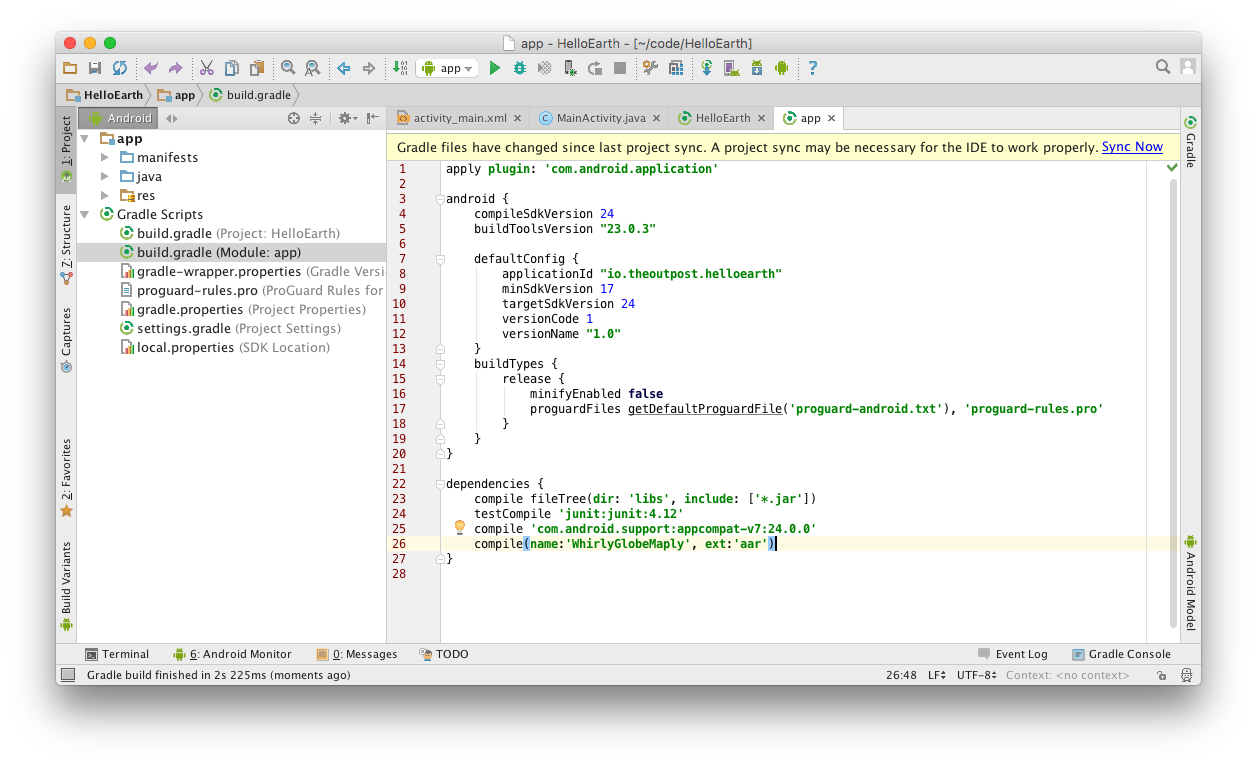
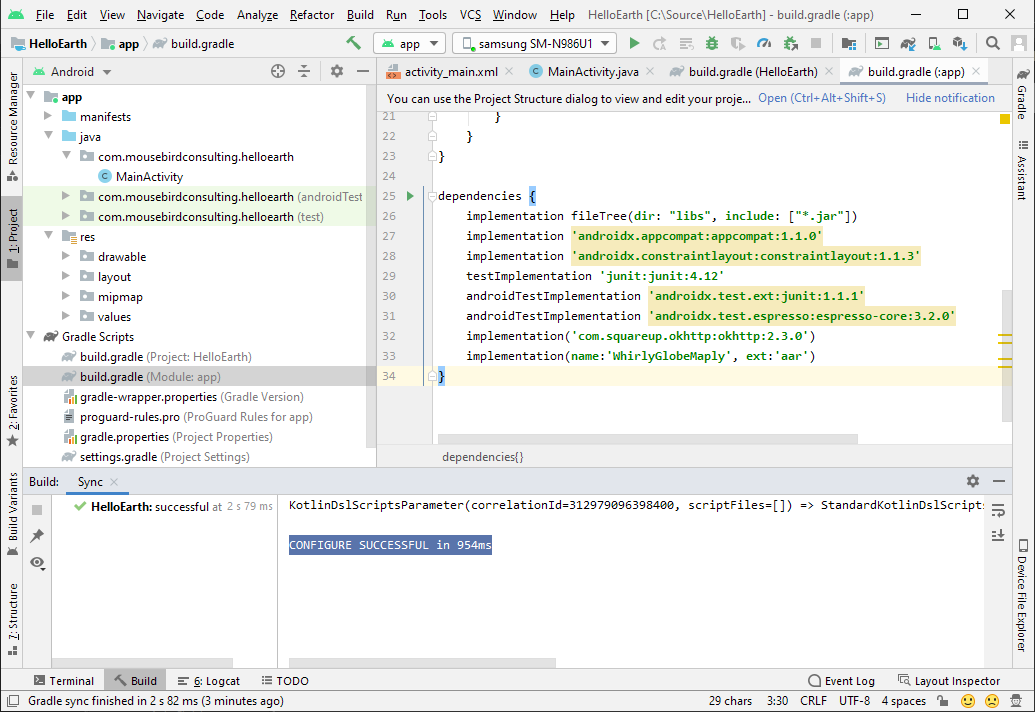
Start on updating tutorials

diff --git a/tutorial/android/your-first-globe-or-map.md b/tutorial/android/your-first-globe-or-map.md
@@ -13,119 +13,60 @@ You can make a 3D globe or a 2D map equally well in WhirlyGlobe-Maply.  Hence th
 
 If you want a rotating globe, you'll want a `MapDisplayType.Globe`. If you want a slippy map, you'll want a `MapDisplayType.Map` enum in your `GlobeMapFragment`. We'll go into greater detail about this setting later in the tutorial.
 
-### Create a Fragment
+### Add Internet Permission
 
-The easiest way to get a globe in your app is to create a fragment that extends the `GlobeMapFragment` class. Most of the boilerplate setup work is done for you in `GlobeMapFragment`, and all you have to do is extend several methods from that class for your specific setup.
+We'll need to be able to load tile images from the internet, which means the application will need to request the internet permission. Add the following `uses-permission` element to the manifest section of `app/manifests/AppManifest.xml`:
 
-Right click on the package of your `MainActivity` in the project window. Select a new blank fragment.
+```xml
+<?xml version="1.0" encoding="utf-8"?>
+<manifest xmlns:android="http://schemas.android.com/apk/res/android"
+    package="com.mousebirdconsulting.helloearth">
 
-![New Blank Fragment](resources/new-blank-fragment.png)
+    <application
+        android:allowBackup="true"
+        android:icon="@mipmap/ic_launcher"
+        android:label="@string/app_name"
+        android:roundIcon="@mipmap/ic_launcher_round"
+        android:supportsRtl="true"
+        android:theme="@style/AppTheme">
+        <activity android:name=".MainActivity">
+            <intent-filter>
+                <action android:name="android.intent.action.MAIN" />
 
-Notice that we are not including layout XML. This is because the internal layout of your fragment is already done for you under the hood, by the library. You can optionally include fragment factory methods and interface callbacks, however, you will need to implement those if you want the app to work. For this tutorial, leave those unchecked.
-
-![Hello Globe Fragment](resources/hello-globe-fragment.png)
-
-Select __Finish__.
+                <category android:name="android.intent.category.LAUNCHER" />
+            </intent-filter>
+        </activity>
+    </application>
+    <uses-permission android:name="android.permission.INTERNET"/>
+</manifest>
+```
 
 ### Include Fragment in Activity XML
 
-Our `HelloGlobeFragment` will be in our main activity, and it will fill all of the space. 
-
-Open `app/src/main/res/layout/activity_hello_globe.xml`. Delete the padding in the `RelativeLayout` as well as the `TextView`. Inside of the relative layout, place a fragment element as shown below.
+Open `app/res/layout/activity_main.xml` and select the "Code" view. Replace the `TextView` with the fragment element as shown below.
 
 #### activity_main.xml
 
 ```xml
 <?xml version="1.0" encoding="utf-8"?>
-<RelativeLayout xmlns:android="http://schemas.android.com/apk/res/android"
+<androidx.constraintlayout.widget.ConstraintLayout xmlns:android="http://schemas.android.com/apk/res/android"
+    xmlns:app="http://schemas.android.com/apk/res-auto"
     xmlns:tools="http://schemas.android.com/tools"
+    android:id="@+id/relativeLayout"
     android:layout_width="match_parent"
     android:layout_height="match_parent"
-    tools:context="io.theoutpost.helloearth.MainActivity">
+    android:background="#FF0000"
+    tools:context=".MainActivity">
 
     <fragment
-        android:layout_width="fill_parent"
-        android:layout_height="fill_parent"
-        android:name="io.theoutpost.helloearth.HelloGlobeFragment"
         android:id="@+id/fragment"
-        android:layout_centerVertical="true"
-        android:layout_centerHorizontal="true" />
-</RelativeLayout>
+        android:name="com.mousebird.maply.GlobeMapFragment"
+        android:layout_width="match_parent"
+        android:layout_height="match_parent"
+         />
+
+</androidx.constraintlayout.widget.ConstraintLayout>
 ```
-
-When you look in the __Design__ view of the layout xml, don't worry if there is a warning that there is no fragment layout. The fragment's layout is set up for you automatically at runtime.
-
-### Setup HelloGlobeFragment.java
-
-Open your `HelloGlobeFragment.java` file and delete the boilerplate code. Replace it with the following:
-
-```java
-package io.theoutpost.helloearth;
-
-import android.os.Bundle;
-import android.view.LayoutInflater;
-import android.view.View;
-import android.view.ViewGroup;
-import com.mousebird.maply.GlobeMapFragment;
-import com.mousebird.maply.QuadImageTileLayer;
-import com.mousebird.maply.RemoteTileInfo;
-import com.mousebird.maply.RemoteTileSource;
-import com.mousebird.maply.SphericalMercatorCoordSystem;
-
-import java.io.File;
-
-
-public class HelloGlobeFragment extends GlobeMapFragment {
-
-    @Override
-    public View onCreateView(LayoutInflater inflater, ViewGroup container,
-                             Bundle inState) {
-        super.onCreateView(inflater, container, inState);
-
-        // Do app specific setup logic.
-
-        return baseControl.getContentView();
-    }
-
-    @Override
-    protected MapDisplayType chooseDisplayType() {
-        return MapDisplayType.Globe;
-    }
-
-    @Override
-    protected void controlHasStarted() {
-        // setup base layer tiles
-        String cacheDirName = "stamen_watercolor";
-        File cacheDir = new File(getActivity().getCacheDir(), cacheDirName);
-        cacheDir.mkdir();
-        RemoteTileSource remoteTileSource = new RemoteTileSource(new RemoteTileInfo("http://tile.stamen.com/watercolor/", "png", 0, 18));
-        remoteTileSource.setCacheDir(cacheDir);
-        SphericalMercatorCoordSystem coordSystem = new SphericalMercatorCoordSystem();
-
-        // globeControl is the controller when using MapDisplayType.Globe
-        // mapControl is the controller when using MapDisplayType.Map
-        QuadImageTileLayer baseLayer = new QuadImageTileLayer(globeControl, coordSystem, remoteTileSource);
-        baseLayer.setImageDepth(1);
-        baseLayer.setSingleLevelLoading(false);
-        baseLayer.setUseTargetZoomLevel(false);
-        baseLayer.setCoverPoles(true);
-        baseLayer.setHandleEdges(true);
-
-        // add layer and position
-        globeControl.addLayer(baseLayer);
-        globeControl.animatePositionGeo(-3.6704803, 40.5023056, 5, 1.0);
-    }
-
-}
-```
-
-You can download [HelloGlobeFragment.java](resources/HelloGlobeFragment.java) and place it directly in your project if you'd like. Notice that it is extending `com.mousebird.maply.GlobeMapFragment`, which is a part of the WhirlyGlobe-Maply library. 
-
-Overridden Methods:
-
-* `onCreateView` sets up and returns the view from the base controller. Here is where you can do custom setup of your fragment.
-* `chooseDisplayType` is where you declare if you want a globe or a map. We choose `MapDisplayType.Globe`.
-* `controlHasStarted` is the final stage where the controller with the OpenGL Surface is ready for final setup.
 
 That's it! You can now build your app. A globe with a Stamen Watercolor base layer should appear.
 

diff --git a/tutorial/android/building-from-binary.md b/tutorial/android/building-from-binary.md
@@ -1,32 +1,19 @@
 ---
-title: Building From Nightly
+title: Building From Binaries
 layout: android-tutorial
 prev_next:
     prev: hello-earth.html
     next: your-first-globe-or-map.html
 ---
 
-If you want the latest and greatest improvements to WhirlyGlobe-Maply you can use nightly or feature based builds.  Take a look at the [nightly versions](/WhirlyGlobe/builds/builds.html) page.  From there you can get feature branch builds or just a nightly build.  We'll show you how to use them here.
-
-
-### Pick the version you need
-
-Just go to the [Automated Builds](/WhirlyGlobe/builds/builds.html) page and choose the version you want to use.
-
-You have two flavours:
-
-  - _Nightly builds_: surprisingly, this is the version built every night (it's night for us, anyway). Use this version if you're sure that one specific change was included in that or previous days.
-  - _Commit or Push builds_: this happens when someone pushes a change to one of the development branches. Use this version if you know the build number that includes your desired change or we pointed you here directly.
-
-Once you've chosen the right version, just download the `.aar` file from the [builds table](/WhirlyGlobe/builds/builds.html).
-
+The simplest way to start using WhirlyGlobe-Maply is the pre-built binary.  Take a look at the [builds page](/WhirlyGlobe/builds/builds.html) page.  From there you can get the AAR file, and we'll show you how to use it here.
 
 ### Copy and Include AAR
 
-Copy your just downloaded `.aar` file into your app's `libs` directory.
+Copy your just-downloaded `.aar` file into your app's `libs` directory:
 
 ```
-WhirlyGlobe/WhirlyGlobeSrc/HelloEarth/app/libs
+HelloEarth/app/libs
 ```
 
 Rename it to `WhirlyGlobeMaply.aar`.
@@ -47,17 +34,19 @@ allprojects {
 
 Next add the following packages to the end of the `dependencies` directive in `Build.gradle (Module: app)`.
 
-* `compile 'com.squareup.okhttp:okhttp:2.3.0'`
-* `compile(name:'WhirlyGlobeMaply', ext:'aar')`
+* `implementation('com.squareup.okhttp:okhttp:2.3.0')`
+* `implementation(name:'WhirlyGlobeMaply', ext:'aar')`
 
 ```gradle
 dependencies {
-    compile fileTree(dir: 'libs', include: ['*.jar'])
-    testCompile 'junit:junit:4.12'
-    compile 'com.android.support:appcompat-v7:24.0.0'
-    compile 'com.android.support:support-v4:24.0.0'
-    compile 'com.squareup.okhttp:okhttp:2.3.0'
-    compile(name: 'WhirlyGlobeMaply', ext: 'aar')
+    implementation fileTree(dir: "libs", include: ["*.jar"])
+    implementation 'androidx.appcompat:appcompat:1.1.0'
+    implementation 'androidx.constraintlayout:constraintlayout:1.1.3'
+    testImplementation 'junit:junit:4.12'
+    androidTestImplementation 'androidx.test.ext:junit:1.1.1'
+    androidTestImplementation 'androidx.test.espresso:espresso-core:3.2.0'
+    implementation('com.squareup.okhttp:okhttp:2.3.0')
+    implementation(name:'WhirlyGlobeMaply', ext:'aar')
 }
 ```
 
@@ -66,4 +55,6 @@ Android Studio will ask you to sync Gradle. If all goes well, it will sync witho
 ![Gradle Sync](resources/gradle-sync.png)
 
 
+---
 
+*Tutorial by Nicholas Hallahan, Steve Gifford, Tim Sylvester.*

diff --git a/tutorial/android/getting-started.md b/tutorial/android/getting-started.md
@@ -3,11 +3,11 @@ title: Before You Start
 layout: android-tutorial
 ---
 
-*Tutorial by Nicholas Hallahan.*
+*Tutorial by Nicholas Hallahan, Steve Gifford, Tim Sylvester.*
 
 ### Code Blocks
 
-There are times you’ll need to enter project settings, code, or commands in the Terminal verbatim. They will look like this.
+There are times you’ll need to enter project settings, code, or commands in the Terminal verbatim. They will look like this:
 
 {% highlight bash %}
 Enter Precisely This Text
@@ -17,8 +17,12 @@ Enter Precisely This Text
 
 You should be familiar with the Terminal.  You’ll need to type a number of commands to get started.
 
-We make use of [git](http://en.wikipedia.org/wiki/Git_(software)) and [github](http://github.com/).  A passing familiarity will help.
+We make use of [git](http://en.wikipedia.org/wiki/Git) and [github](http://github.com/).  A passing familiarity will help.
 
 For Android development, we use [Android Studio](https://developer.android.com/studio/index.html). Android Studio comes with the Android Development Kit (required). If you are building from source, you will also need the [Native Development Kit (NDK)](https://developer.android.com/ndk/index.html).  You can install all that from the Android Studio interface.
 
-The tutorial used Android Studio 3.5, but should work fine with newer versions.
+The tutorial used Android Studio 4.0, but should work fine with newer versions.
+
+---
+
+*Tutorial by Nicholas Hallahan, Steve Gifford, Tim Sylvester.*

diff --git a/tutorial/android/building-from-source.md b/tutorial/android/building-from-source.md
@@ -6,9 +6,7 @@ prev_next:
     next: your-first-globe-or-map.html
 ---
 
-*Tutorial by Nicholas Hallahan.*
-
-Building the toolkit from source you'll be able to modify and customize WhirlyGlobe-Maply, and your changes will immediately be compiled into your project. If you plan on modifying this toolkit, building from source is your best option.
+Building the toolkit from source, you'll be able to modify and customize WhirlyGlobe-Maply, and your changes will immediately be compiled into your project. If you plan on modifying this toolkit, building from source is your best option.
 
 ### Clone Git Repository
 
@@ -25,14 +23,13 @@ cd WhirlyGlobe
 git checkout develop_3_0
 ```
 
-WhirlyGlobe-Maply uses a bunch of submodules for its dependencies.
+WhirlyGlobe-Maply uses two submodules for its dependencies.
 
 ```sh
 git submodule init
 git submodule update
 ```
 
-There are 13 git submodules that need to be cloned and initialized. This usually takes about a minute.
 
 ### local.properties
 
@@ -119,5 +116,7 @@ Android Studio will ask you to sync Gradle. If all goes well, it will sync witho
 
 Besides this "[Hello Earth](hello-earth.html)" project, there is an example app you can try out called `AutoTesterAndroid`. This is optional, but it is the quickest way to _see something work_. We have [brief instructions](auto-tester-android.html) for you to build AutoTesterAndroid.
 
+---
 
+*Tutorial by Nicholas Hallahan, Steve Gifford, Tim Sylvester.*
 

diff --git a/tutorial/android/hello-earth.md b/tutorial/android/hello-earth.md
@@ -3,8 +3,6 @@ title: Hello Earth Project
 layout: android-tutorial
 ---
 
-*Tutorial by Nicholas Hallahan.*
-
 Now we will be building a _Hello Earth_ project. Similar to your typical _Hello World_, we will be creating a basic project in Android Studio that displays a globe and map using WhirlyGlobe-Maply.
 
 _Note: You can check out the [completed Android tutorial](https://github.com/mousebird/AndroidTutorialProject) on Github. It includes the WhirlyGlobe-Maply library and everything you need--all you have to do is run it in Android Studio._
@@ -36,6 +34,10 @@ At this point, you have started a new standard project, but you need to add Whir
 We distribute the WhirlyGlobe-Maply library for Android in a couple of ways ways. Either of them is fine.  Pick the one you are most familiar with.  Don’t care?  Try the binary.
 
 * [Building from Source](building-from-source.html) - Use the source the code to build your own binary.
-* [Building from Binary](building-from-binary.html) - Use the unstable version with the latest and the greatest improvements.
+* [Building from Binary](building-from-binary.html) - Use the pre-built binaries.
 
 It’s like a pick your own adventure book, but boring.  So just like a pick your own adventure book.
+
+---
+
+*Tutorial by Nicholas Hallahan, Steve Gifford, Tim Sylvester.*
